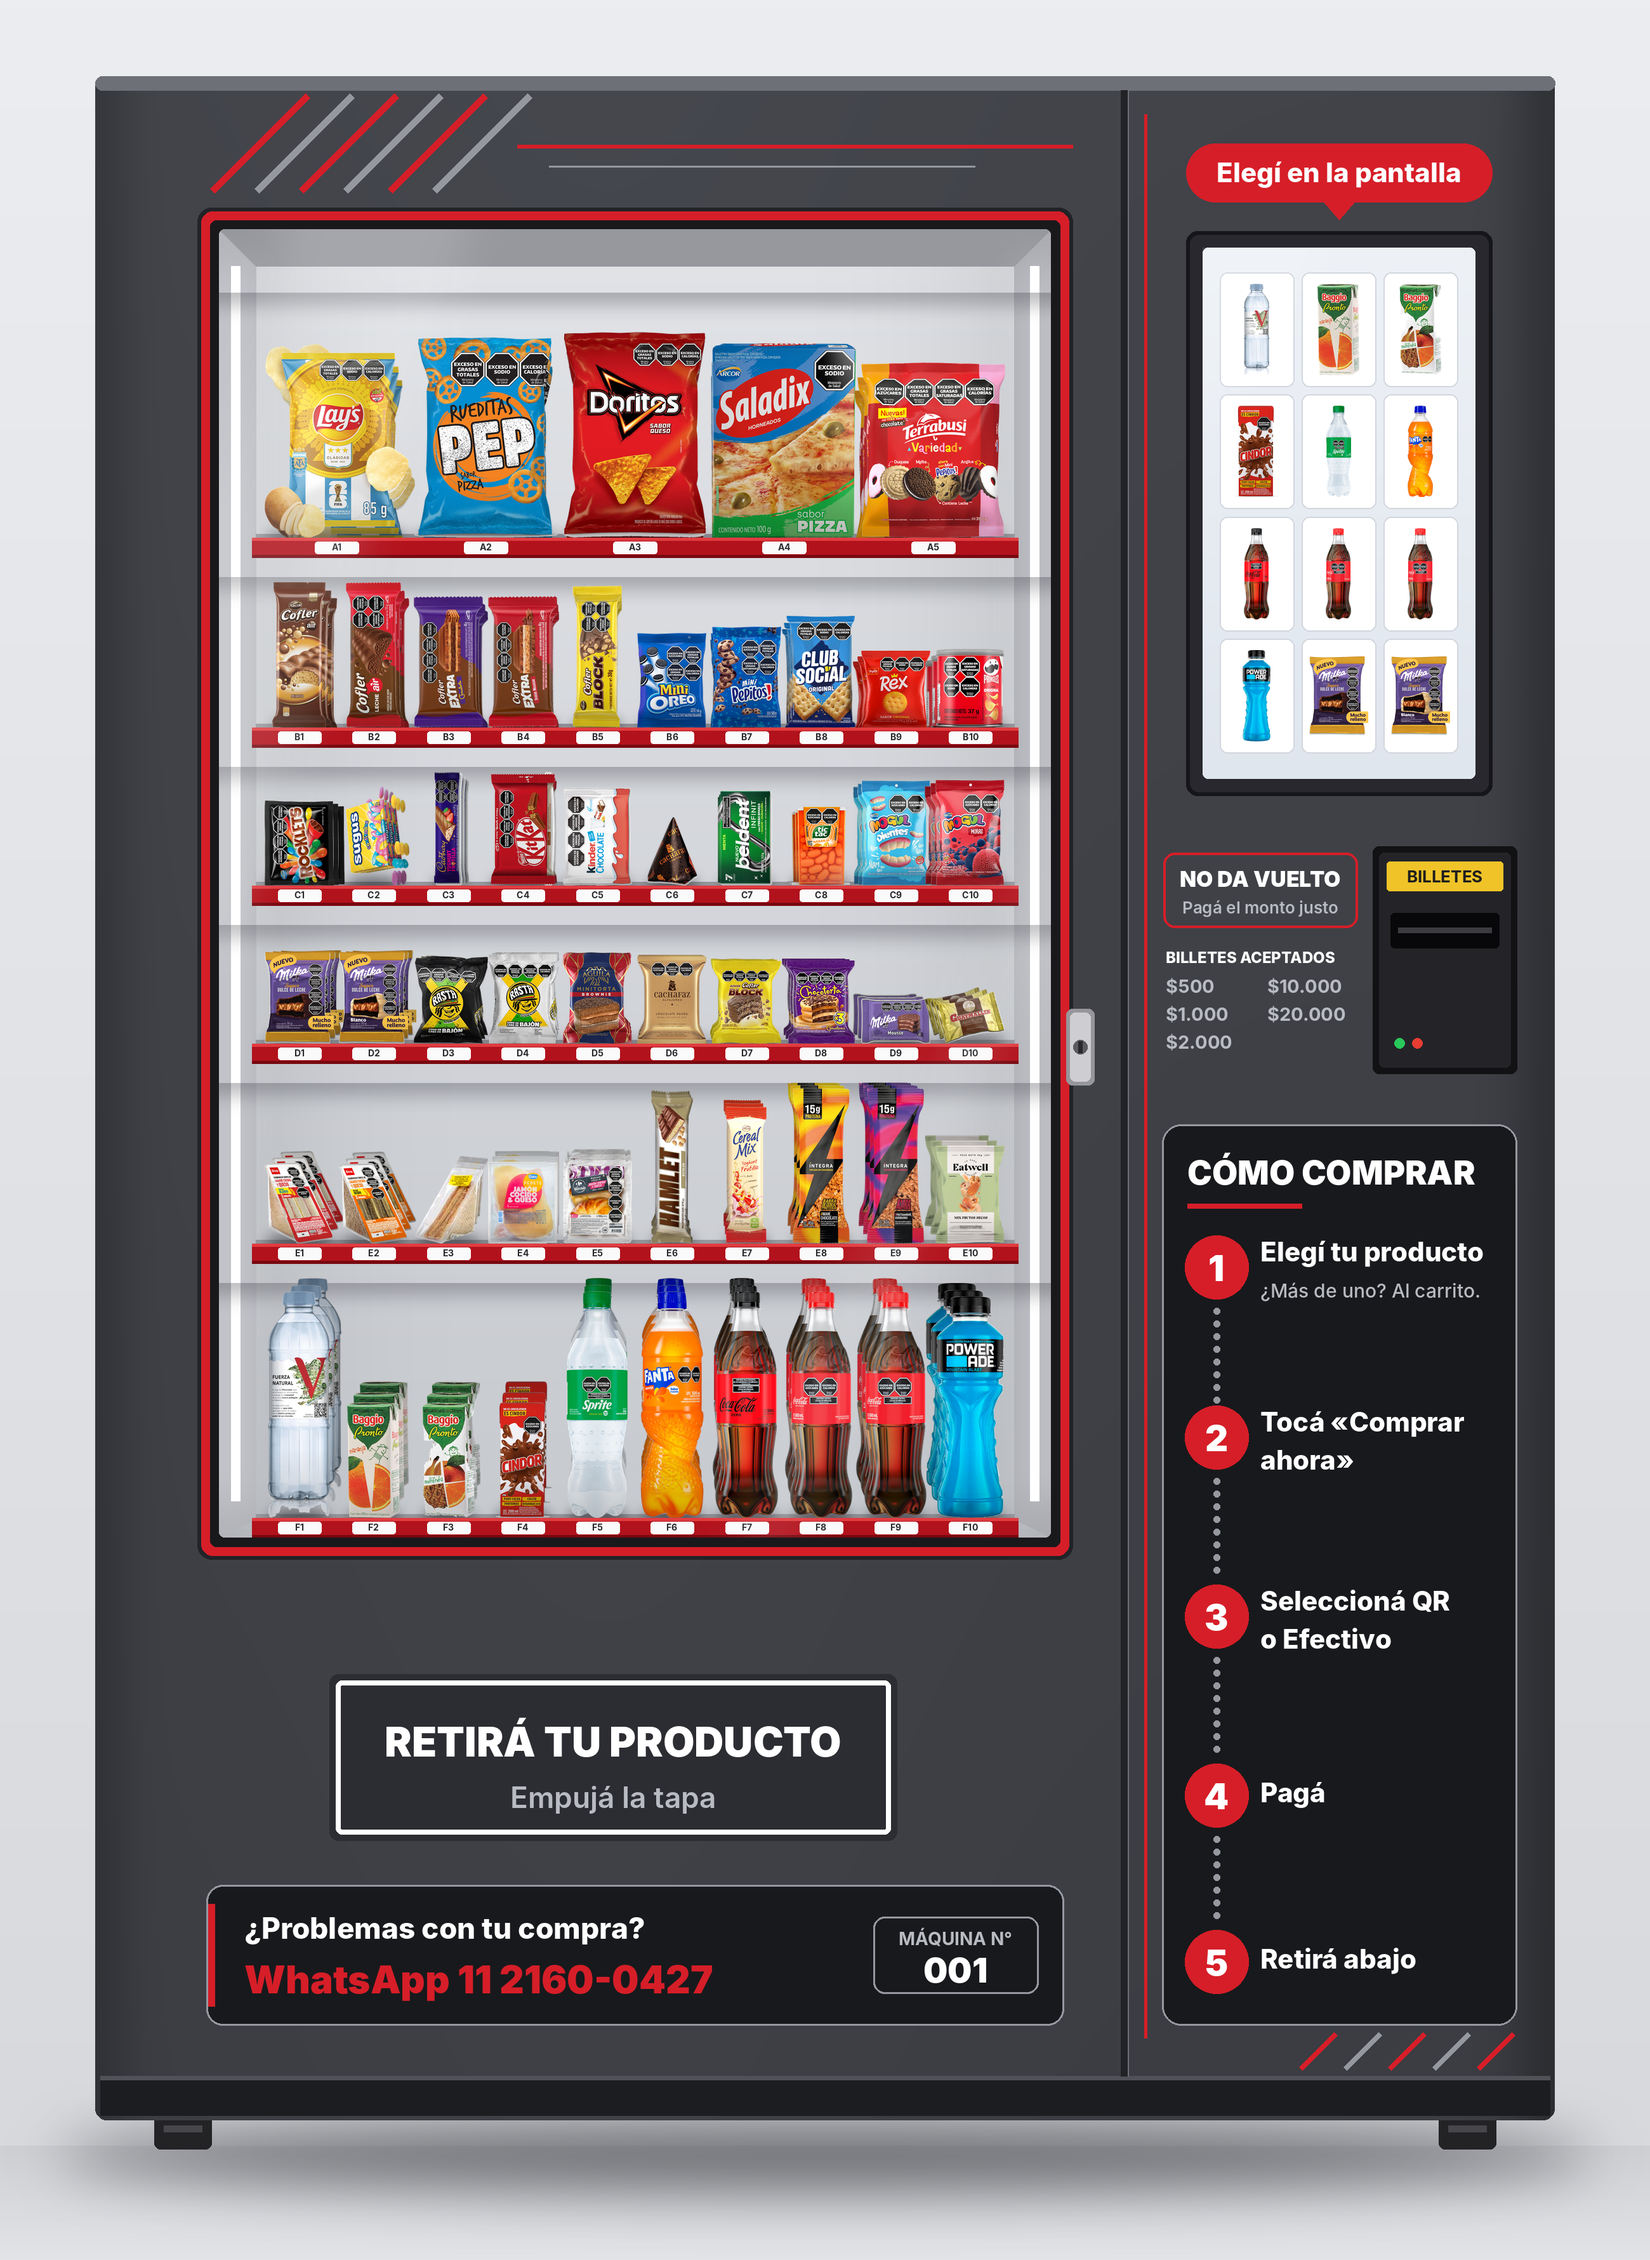
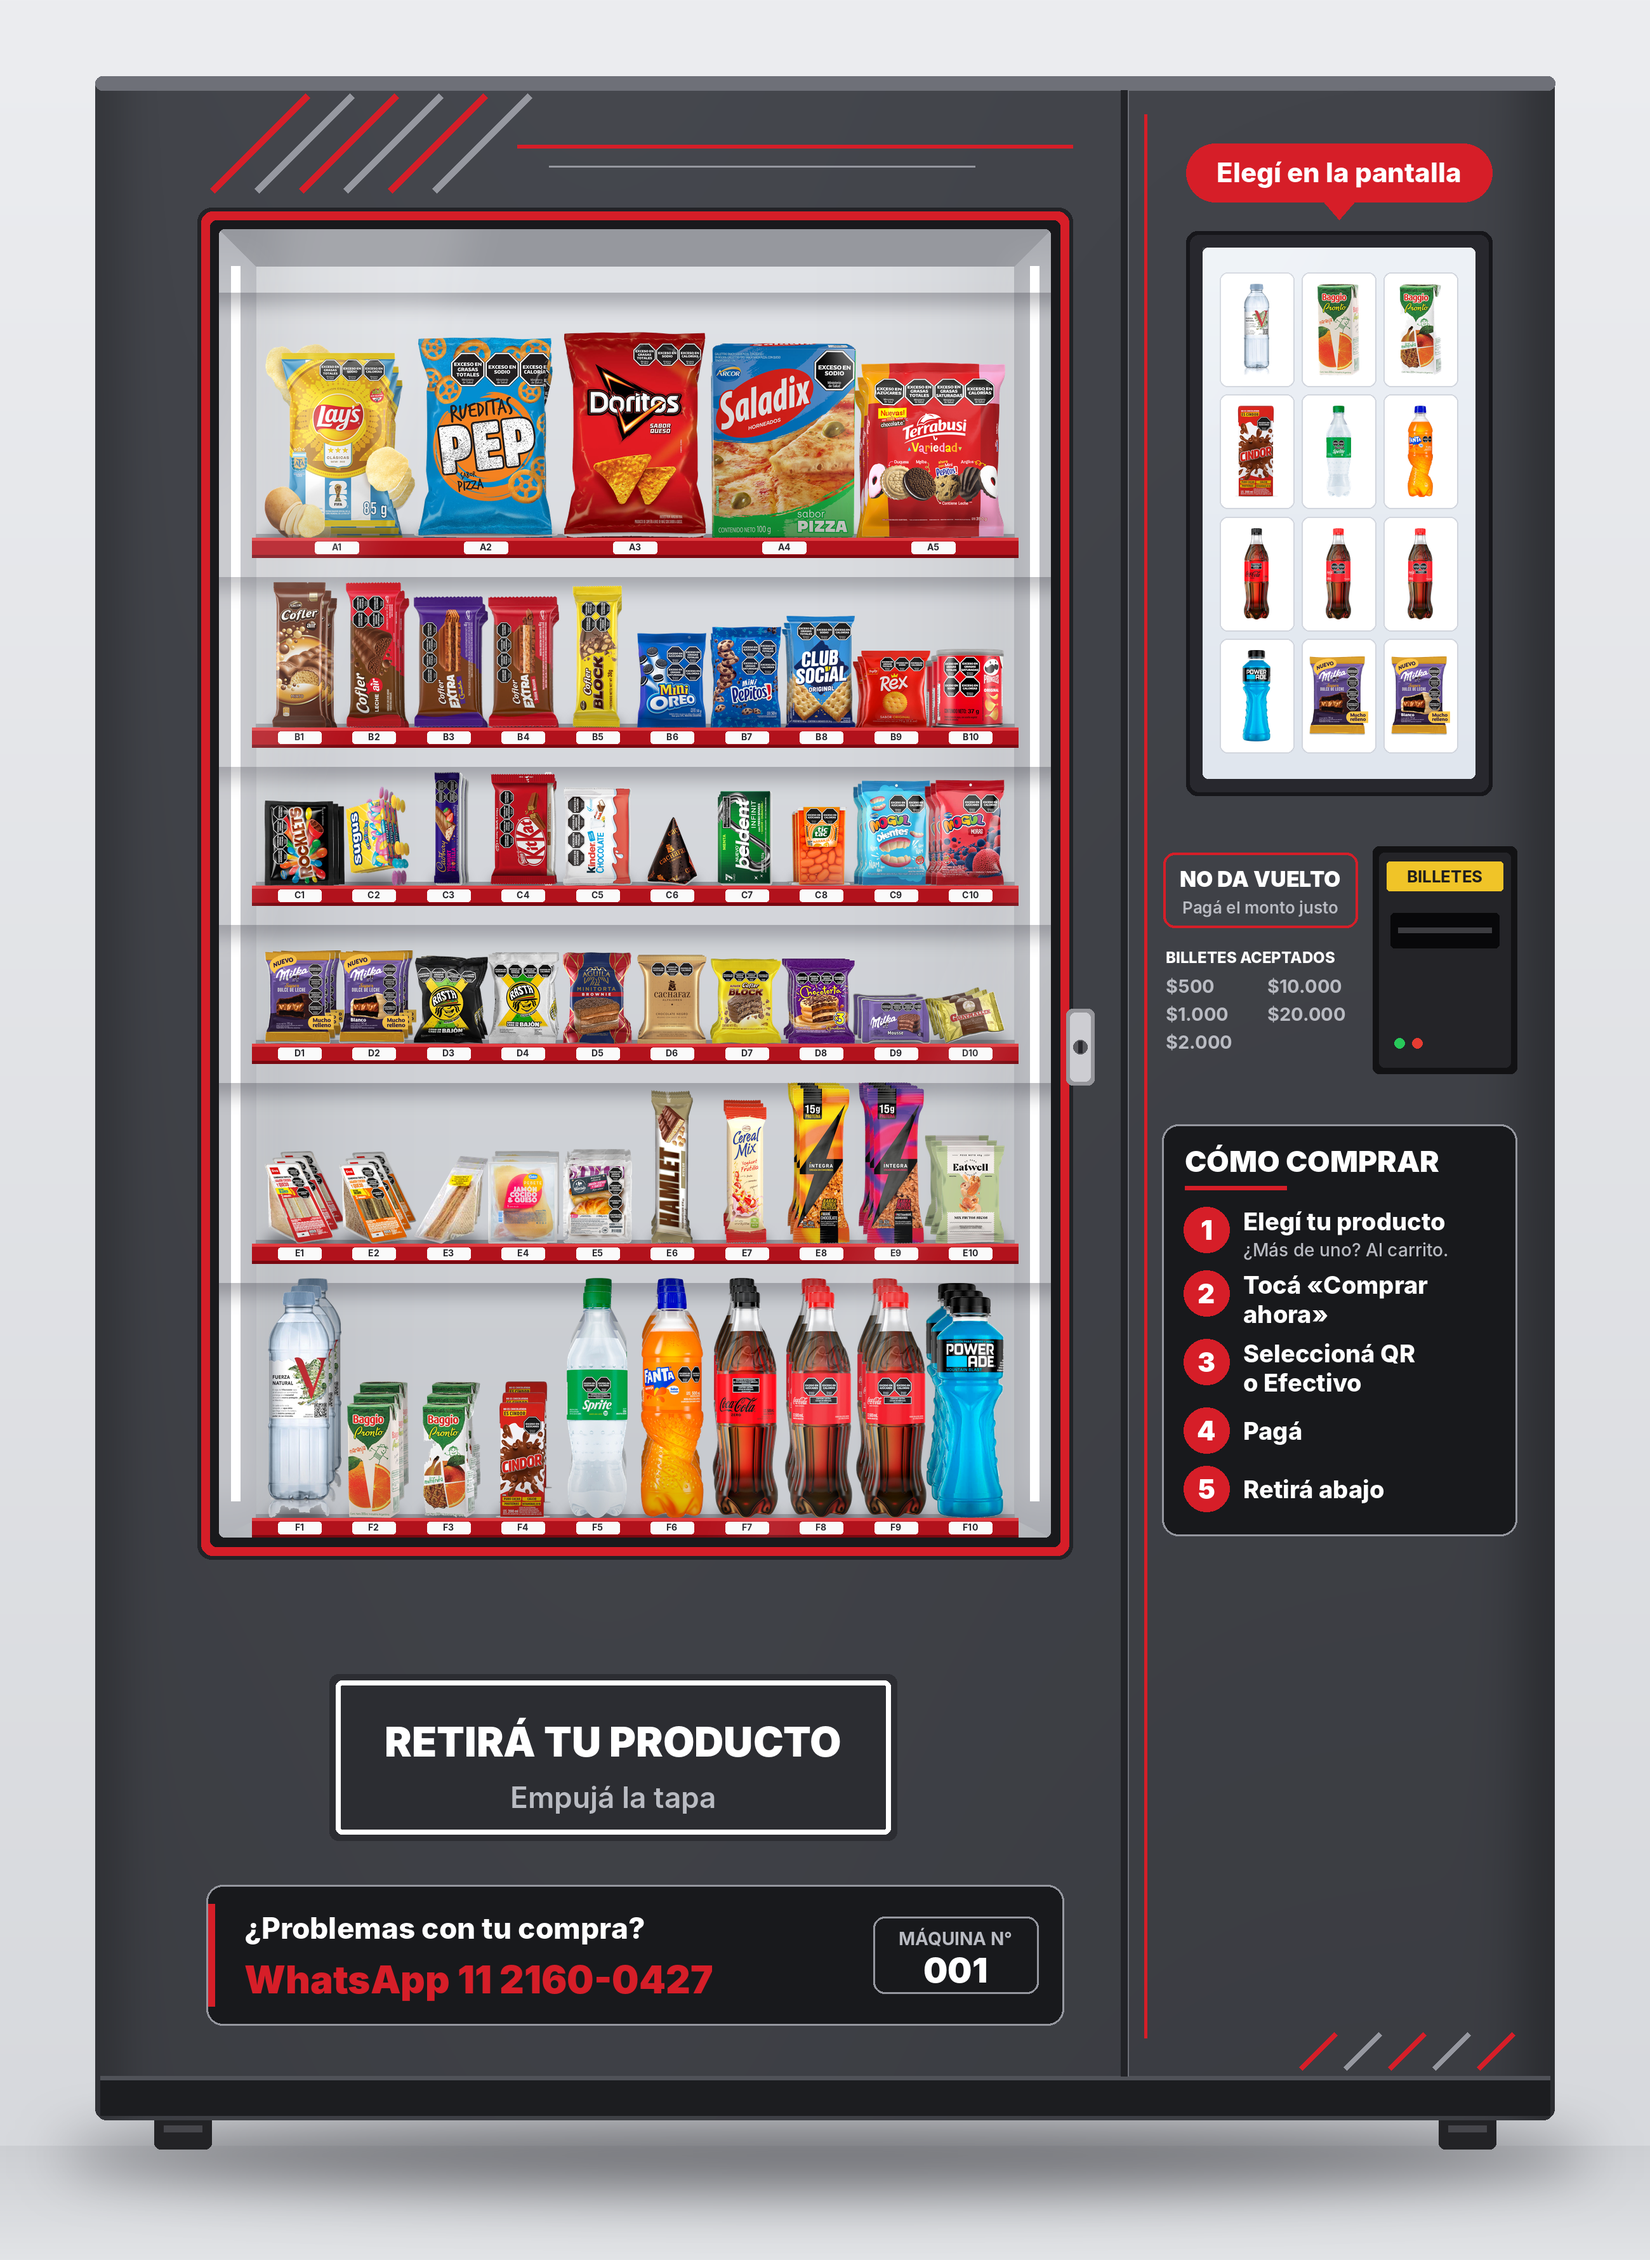
Ploteo sanatorio: recuadro de Cómo comprar más compacto
Claude-Session: https://claude.ai/code/session_019riW69UisGa26ciLraXE3K

Changed region(s): [[0.6854, 0.4989, 0.9346, 0.9042]]

diff --git a/maquina-expendedora/scripts/ploteo_sanatorio.py b/maquina-expendedora/scripts/ploteo_sanatorio.py
@@ -84,32 +84,28 @@ def ploteo(v):
 
     # Cómo comprar (fondo negro, letras claras, borde de línea)
     sx0, sx1, sy0 = P + 60, R - 60, by1 + 90
-    sy1 = B - 150
-    d.rounded_rectangle((sx0, sy0, sx1, sy1), 30, fill=caja, outline=l2, width=3)
-    d.text((sx0 + 40, sy0 + 44), "CÓMO COMPRAR", font=fnt("black", 52), fill=BLANCO)
-    d.line((sx0 + 40, sy0 + 128, sx0 + 220, sy0 + 128), fill=ROJO, width=8)
     # cada paso: líneas del título (en blanco) + líneas de aclaración (en gris)
     pasos = [(["Elegí tu producto"], ["¿Más de uno? Al carrito."]),
              (["Tocá «Comprar", "ahora»"], []),
              (["Seleccioná QR", "o Efectivo"], []),
              (["Pagá"], []),
              (["Retirá abajo"], [])]
-    alto = lambda t, s: max(100, 60 * len(t) + 46 * len(s))
-    libre = (sy1 - 50) - (sy0 + 175) - sum(alto(t, s) for t, s in pasos)
-    gap = libre / (len(pasos) - 1)
-    y = sy0 + 175
+    alto = lambda t, s: max(76, 46 * len(t) + 38 * len(s))
+    gap = 16
+    sy1 = sy0 + 130 + sum(alto(t, s) for t, s in pasos) + gap * (len(pasos) - 1) + 34
+    d.rounded_rectangle((sx0, sy0, sx1, sy1), 26, fill=caja, outline=l2, width=3)
+    d.text((sx0 + 36, sy0 + 30), "CÓMO COMPRAR", font=fnt("black", 46), fill=BLANCO)
+    d.line((sx0 + 36, sy0 + 100, sx0 + 196, sy0 + 100), fill=ROJO, width=7)
+    y = sy0 + 130
     for i, (tit, sub) in enumerate(pasos):
         h = alto(tit, sub)
-        d.ellipse((sx0 + 36, y, sx0 + 136, y + 100), fill=ROJO)
-        centro(d, (sx0 + 86, y + 51), str(i + 1), fnt("black", 56), BLANCO)
-        ty = y + (20 if len(tit) == 1 and not sub else 0)
+        d.ellipse((sx0 + 34, y, sx0 + 106, y + 72), fill=ROJO)
+        centro(d, (sx0 + 70, y + 37), str(i + 1), fnt("black", 42), BLANCO)
+        ty = y + (14 if len(tit) == 1 and not sub else 0)
         for j, ln in enumerate(tit):
-            d.text((sx0 + 155, ty + j * 60), ln, font=fnt("xb", 42), fill=BLANCO)
+            d.text((sx0 + 128, ty + j * 46), ln, font=fnt("xb", 38), fill=BLANCO)
         for j, ln in enumerate(sub):
-            d.text((sx0 + 155, ty + len(tit) * 60 + 8 + j * 46), ln, font=fnt("m", 30), fill=GRIS_T)
-        if i < len(pasos) - 1:                # línea punteada que une los pasos
-            for yy in range(int(y + 114), int(y + h + gap - 12), 20):
-                d.ellipse((sx0 + 81, yy, sx0 + 91, yy + 10), fill=l2)
+            d.text((sx0 + 128, ty + len(tit) * 46 + 4 + j * 38), ln, font=fnt("m", 28), fill=GRIS_T)
         y += h + gap
 
     # Puerta de retiro
